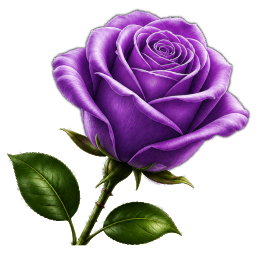
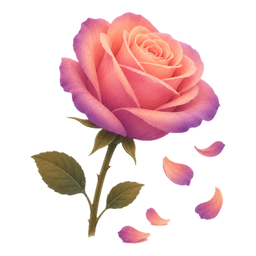
A rose that comes apart in the colours it is painted in
New artwork for the flower card: a painted rose running coral at its heart
to purple at the petal edges, with a few petals already falling. Keyed off
white the usual way, except that this one arrived inside a screenshot frame
— a black edge touching the border stops the flood-fill ever reaching the
white, so the frame is shaved before the key rather than after.

The petals that rain down are re-sampled from it, as that folder's README
says they must be. They are a spread along the flower's own gradient rather
than one average tint, because a field of a single flat pink reads as
confetti where a run from coral to purple reads as that flower coming apart.
The palest tints are still left out: each petal carries a white highlight,
and on a tint that pale it takes the whole shape to near-white — which
against the hero's new pale ground is not a petal at all.

The inline SVG fallback follows the artwork, as it is meant to.

diff --git a/public/build/assets/memorial-public-q6x1Aocp.js b/public/build/assets/memorial-public-q6x1Aocp.js
@@ -37,7 +37,7 @@ import{_ as dt}from"./preload-helper-I4rgV-VL.js";document.addEventListener("DOM
 <symbol id="mp-4" viewBox="0 0 60 80"><use href="#mpb-4" fill="currentColor"/><g clip-path="url(#mpc-4)"><path d="M32 80c-9-14-12-32-10-47 1-8 3-15 6-20-1 14 0 27 3 39 3 12 5 22 1 28z" fill="#000" opacity=".24"/><path d="M37 0c6 11 6 25 3 40-1 6-2 11-3 16 0-14-1-26-2-35-1-9-2-17 2-21z" fill="#fff" opacity=".22"/></g></symbol>
 <symbol id="mp-5" viewBox="0 0 60 80"><use href="#mpb-5" fill="currentColor"/><g clip-path="url(#mpc-5)"><path d="M28 82c-11-15-7-27-1-36 6-9 5-19-6-29 6-4 13-4 19-2-8 10-9 20-5 29 4 9 5 20-7 38z" fill="#000" opacity=".22"/><path d="M41 2c11 3 17 11 17 21 0 11-8 19-13 26-3 4-6 8-7 11 3-12 7-22 8-31 1-11-2-20-5-27z" fill="#fff" opacity=".24"/></g></symbol>
 <symbol id="mp-6" viewBox="0 0 60 80"><use href="#mpb-6" fill="currentColor"/><g clip-path="url(#mpc-6)"><path d="M30 78c-10-11-16-24-15-38 1-7 4-14 9-18-2 11-1 21 2 30 3 9 6 18 4 26z" fill="#000" opacity=".22"/><path d="M34 16c11-2 18 5 18 16 0 9-4 19-10 28 3-12 3-22 1-30-2-8-7-12-9-14z" fill="#fff" opacity=".24"/></g></symbol>
-</defs></svg>`,Ye=["#cf94e4","#c280d9","#b369cc","#a748c5","#9817bb","#8a15ae"],Ge=[0,0,0,1,1,2,2,3,3,3,4,5,5,6,6],Tt=[{share:.42,width:[13,24],opacity:[.3,.5],blur:1.4,duration:[5400,7200],tumble:.6,sway:[30,90]},{share:.4,width:[26,46],opacity:[.75,1],blur:0,duration:[3600,5200],tumble:1,sway:[50,150]},{share:.18,width:[64,118],opacity:[.45,.7],blur:3.5,duration:[2400,3400],tumble:1.35,sway:[80,220]}],j=(e,t)=>e+Math.random()*(t-e);let O=null,Ae=0;function _t(){return O&&O.isConnected||(document.getElementById("mpb-0")||document.body.insertAdjacentHTML("beforeend",It),O=document.createElement("div"),O.className="memorial-petal-layer",O.setAttribute("aria-hidden","true"),document.body.appendChild(O)),O}function Bt(e){const{fromX:t,toX:o,fromY:r,toY:n,amp:a,waves:s,phase:c,rx:i,ry:u,rz:p,scale:d}=e,h=10,v=[];for(let L=0;L<=h;L++){const m=L/h,H=t+(o-t)*m+Math.sin(c+m*Math.PI*s)*a,x=r+(n-r)*m,$=m<.06?m/.06:m>.88?(1-m)/.12:1;v.push({offset:m,opacity:$,transform:`translate3d(${H.toFixed(1)}px, ${x.toFixed(1)}px, 0) rotateX(${(i*m).toFixed(1)}deg) rotateY(${(u*m).toFixed(1)}deg) rotateZ(${(p*m).toFixed(1)}deg) scale(${d})`})}return v}const At=3600;function Pt(){if(We())return;const e=_t(),t=window.innerWidth,o=window.innerHeight,r=t>=1024?110:t>=640?88:58,n=Math.max(0,r-Ae);n!==0&&Tt.forEach(a=>{const s=Math.round(n*a.share);for(let c=0;c<s;c++){const i=Math.min(j(a.width[0],a.width[1]),t*.26),u=Ge[Math.floor(Math.random()*Ge.length)],p=Ye[Math.floor(Math.random()*Ye.length)],d=i*(80/60),h=document.createElement("span");h.className="memorial-petal",h.style.opacity="0",a.blur&&(h.style.filter=`blur(${a.blur}px)`),h.innerHTML=`<svg viewBox="0 0 60 80" width="${i.toFixed(0)}" height="${d.toFixed(0)}" style="color:${p}"><use href="#mp-${u}"/></svg>`,e.appendChild(h);const v=j(-i,t),L=j(a.duration[0],a.duration[1]),m=Bt({fromX:v,toX:v+j(-40,170)*(L/4e3),fromY:-d-j(0,o*.25),toY:o+d,amp:j(a.sway[0],a.sway[1]),waves:j(1.5,3.5),phase:Math.random()*Math.PI*2,rx:j(-150,150)*a.tumble,ry:j(150,430)*a.tumble*(Math.random()<.5?-1:1),rz:j(-540,540)*a.tumble,scale:Math.random()<.5?1:-1});Ae++;const H=()=>{h.remove(),Ae--};h.animate(m,{duration:L,easing:"linear",delay:j(-L*.9,At),fill:"forwards"}).finished.then(H).catch(H)}})}let U=null;function Ht(){return U&&U.isConnected||(U=document.createElement("div"),U.className="memorial-burst-layer",U.setAttribute("aria-hidden","true"),document.body.appendChild(U)),U}const We=()=>window.matchMedia("(prefers-reduced-motion: reduce)").matches;function Ke(e,t,o,r){const n=document.createElement("span");return n.className="memorial-burst-particle",n.innerHTML=t,n.style.left=`${o}px`,n.style.top=`${r}px`,e.appendChild(n),n}function Qe(e,t,o,r){if(We())return;const n=Xe[o]||Xe.prayer,a=Ht(),s="cubic-bezier(0.23, 1, 0.32, 1)",c=o==="flower";c&&Pt(),o==="candle"&&dt(()=>import("./memorial-candle-scene-Dh6yhaRk.js"),[]).then(d=>d.playCandleScene({originX:e,originY:t})).catch(()=>{}),o==="prayer"&&dt(()=>import("./memorial-prayer-scene-Bp1uh1z-.js"),[]).then(d=>d.playPrayerScene({originX:e,artSrc:r})).catch(()=>{});const i=r?`<img src="${A(r)}" alt="" width="132" height="132" style="display:block" />`:n.pop,u=Ke(a,i,e,t);u.style.transform="translate(-50%, -50%)",u.animate([{transform:"translate(-50%, -50%) scale(0.4)",opacity:0},{transform:"translate(-50%, -50%) scale(1.15)",opacity:1,offset:.35},{transform:"translate(-50%, -50%) scale(0.95)",opacity:.9,offset:.6},{transform:"translate(-50%, -50%) scale(1.35)",opacity:0}],{duration:720,easing:s,fill:"forwards"}).finished.then(()=>u.remove()).catch(()=>u.remove());const p=c?0:18;for(let d=0;d<p;d++){const h=n.particles[d%n.particles.length],v=Ke(a,h,e,t),L=d/p*Math.PI*2+(Math.random()-.5)*.5,m=95+Math.random()*115,H=Math.cos(L)*m,x=Math.sin(L)*m,$=30+Math.random()*45,S=(Math.random()-.5)*540,T=820+Math.random()*380;v.animate([{transform:"translate(-50%, -50%) translate(0px, 0px) scale(0.3) rotate(0deg)",opacity:0},{transform:`translate(-50%, -50%) translate(${H*.55}px, ${x*.55-10}px) scale(1) rotate(${S*.4}deg)`,opacity:1,offset:.3},{transform:`translate(-50%, -50%) translate(${H}px, ${x+$}px) scale(0.55) rotate(${S}deg)`,opacity:0}],{duration:T,easing:s,fill:"forwards"}).finished.then(()=>v.remove()).catch(()=>v.remove())}}function Ft(e,t){const o=document.querySelector(`[data-tribute-action-count="${e}"]`);if(!o)return;const r=o.dataset.noun||e,n=Math.max(0,parseInt((o.textContent||"0").replace(/\D/g,"")||0)+t);o.textContent=`${n} ${n===1?r:r+"s"}`}document.querySelectorAll("[data-tribute-action]").forEach(e=>{e.addEventListener("click",t=>{t.preventDefault();const o=e.dataset.tributeAction,r=e.getBoundingClientRect(),n=t.clientX||r.left+r.width/2,a=t.clientY||r.top+r.height/2,s=e.querySelector(".memorial-tribute-action__art img")?.src||null;if(e.closest("[data-tribute-quota-reached]")){Qe(n,a,o,s);return}Qe(n,a,o,s),qt({type:o}).then(c=>{c.ok&&Dt(o)})})});const W=document.getElementById("tribute-say-more"),jt={flower:"Say something with your flower",candle:"Say something with your candle",prayer:"Say something with your prayer"};function Dt(e){if(!W)return;W.dataset.marker=e;const t=W.querySelector("[data-say-more-label]");t&&(t.textContent=jt[e]||"Add a few words"),W.classList.remove("hidden")}W?.addEventListener("click",()=>{be(W.dataset.marker||""),W.classList.add("hidden")});function Je(e,t,o="h-10 w-10",r="bg-brand-100 dark:bg-brand-500/30 text-brand-600 dark:text-brand-400 text-sm font-semibold"){if(e)return`<img src="${A(e)}" alt="${A(t||"")}" class="${o} shrink-0 rounded-full object-cover" />`;const n=(t||"?").charAt(0).toUpperCase();return`<div class="flex ${o} shrink-0 items-center justify-center rounded-full ${r}">${A(n)}</div>`}function Ze(e){const t=document.getElementById("life-feed");if(!t)return;const o=(e.media||[]).map(a=>a.type==="photo"?`<img src="${a.url}" alt="" class="max-w-full rounded-lg mt-2" />`:a.type==="video"?tt(a.url,a.caption):a.type==="music"?Rt(a.url,a.caption,a.filename):"").join(""),r=document.createElement("article");r.id="chapter-"+e.id,r.className="life-feed-post relative overflow-visible rounded-xl border border-gray-300 dark:border-gray-800 bg-white dark:bg-white/[0.03]",r.dataset.postId=e.id,r.dataset.chapterId="",r.dataset.marker=e.tribute_type||"story",r.innerHTML=`
+</defs></svg>`,Ye=["#f08a72","#e76069","#dd6f8f","#c96a9d","#aa5796","#8b3f84"],Ge=[0,0,0,1,1,2,2,3,3,3,4,5,5,6,6],Tt=[{share:.42,width:[13,24],opacity:[.3,.5],blur:1.4,duration:[5400,7200],tumble:.6,sway:[30,90]},{share:.4,width:[26,46],opacity:[.75,1],blur:0,duration:[3600,5200],tumble:1,sway:[50,150]},{share:.18,width:[64,118],opacity:[.45,.7],blur:3.5,duration:[2400,3400],tumble:1.35,sway:[80,220]}],j=(e,t)=>e+Math.random()*(t-e);let O=null,Ae=0;function _t(){return O&&O.isConnected||(document.getElementById("mpb-0")||document.body.insertAdjacentHTML("beforeend",It),O=document.createElement("div"),O.className="memorial-petal-layer",O.setAttribute("aria-hidden","true"),document.body.appendChild(O)),O}function Bt(e){const{fromX:t,toX:o,fromY:r,toY:n,amp:a,waves:s,phase:c,rx:i,ry:u,rz:p,scale:d}=e,h=10,v=[];for(let L=0;L<=h;L++){const m=L/h,H=t+(o-t)*m+Math.sin(c+m*Math.PI*s)*a,x=r+(n-r)*m,$=m<.06?m/.06:m>.88?(1-m)/.12:1;v.push({offset:m,opacity:$,transform:`translate3d(${H.toFixed(1)}px, ${x.toFixed(1)}px, 0) rotateX(${(i*m).toFixed(1)}deg) rotateY(${(u*m).toFixed(1)}deg) rotateZ(${(p*m).toFixed(1)}deg) scale(${d})`})}return v}const At=3600;function Pt(){if(We())return;const e=_t(),t=window.innerWidth,o=window.innerHeight,r=t>=1024?110:t>=640?88:58,n=Math.max(0,r-Ae);n!==0&&Tt.forEach(a=>{const s=Math.round(n*a.share);for(let c=0;c<s;c++){const i=Math.min(j(a.width[0],a.width[1]),t*.26),u=Ge[Math.floor(Math.random()*Ge.length)],p=Ye[Math.floor(Math.random()*Ye.length)],d=i*(80/60),h=document.createElement("span");h.className="memorial-petal",h.style.opacity="0",a.blur&&(h.style.filter=`blur(${a.blur}px)`),h.innerHTML=`<svg viewBox="0 0 60 80" width="${i.toFixed(0)}" height="${d.toFixed(0)}" style="color:${p}"><use href="#mp-${u}"/></svg>`,e.appendChild(h);const v=j(-i,t),L=j(a.duration[0],a.duration[1]),m=Bt({fromX:v,toX:v+j(-40,170)*(L/4e3),fromY:-d-j(0,o*.25),toY:o+d,amp:j(a.sway[0],a.sway[1]),waves:j(1.5,3.5),phase:Math.random()*Math.PI*2,rx:j(-150,150)*a.tumble,ry:j(150,430)*a.tumble*(Math.random()<.5?-1:1),rz:j(-540,540)*a.tumble,scale:Math.random()<.5?1:-1});Ae++;const H=()=>{h.remove(),Ae--};h.animate(m,{duration:L,easing:"linear",delay:j(-L*.9,At),fill:"forwards"}).finished.then(H).catch(H)}})}let U=null;function Ht(){return U&&U.isConnected||(U=document.createElement("div"),U.className="memorial-burst-layer",U.setAttribute("aria-hidden","true"),document.body.appendChild(U)),U}const We=()=>window.matchMedia("(prefers-reduced-motion: reduce)").matches;function Ke(e,t,o,r){const n=document.createElement("span");return n.className="memorial-burst-particle",n.innerHTML=t,n.style.left=`${o}px`,n.style.top=`${r}px`,e.appendChild(n),n}function Qe(e,t,o,r){if(We())return;const n=Xe[o]||Xe.prayer,a=Ht(),s="cubic-bezier(0.23, 1, 0.32, 1)",c=o==="flower";c&&Pt(),o==="candle"&&dt(()=>import("./memorial-candle-scene-Dh6yhaRk.js"),[]).then(d=>d.playCandleScene({originX:e,originY:t})).catch(()=>{}),o==="prayer"&&dt(()=>import("./memorial-prayer-scene-Bp1uh1z-.js"),[]).then(d=>d.playPrayerScene({originX:e,artSrc:r})).catch(()=>{});const i=r?`<img src="${A(r)}" alt="" width="132" height="132" style="display:block" />`:n.pop,u=Ke(a,i,e,t);u.style.transform="translate(-50%, -50%)",u.animate([{transform:"translate(-50%, -50%) scale(0.4)",opacity:0},{transform:"translate(-50%, -50%) scale(1.15)",opacity:1,offset:.35},{transform:"translate(-50%, -50%) scale(0.95)",opacity:.9,offset:.6},{transform:"translate(-50%, -50%) scale(1.35)",opacity:0}],{duration:720,easing:s,fill:"forwards"}).finished.then(()=>u.remove()).catch(()=>u.remove());const p=c?0:18;for(let d=0;d<p;d++){const h=n.particles[d%n.particles.length],v=Ke(a,h,e,t),L=d/p*Math.PI*2+(Math.random()-.5)*.5,m=95+Math.random()*115,H=Math.cos(L)*m,x=Math.sin(L)*m,$=30+Math.random()*45,S=(Math.random()-.5)*540,T=820+Math.random()*380;v.animate([{transform:"translate(-50%, -50%) translate(0px, 0px) scale(0.3) rotate(0deg)",opacity:0},{transform:`translate(-50%, -50%) translate(${H*.55}px, ${x*.55-10}px) scale(1) rotate(${S*.4}deg)`,opacity:1,offset:.3},{transform:`translate(-50%, -50%) translate(${H}px, ${x+$}px) scale(0.55) rotate(${S}deg)`,opacity:0}],{duration:T,easing:s,fill:"forwards"}).finished.then(()=>v.remove()).catch(()=>v.remove())}}function Ft(e,t){const o=document.querySelector(`[data-tribute-action-count="${e}"]`);if(!o)return;const r=o.dataset.noun||e,n=Math.max(0,parseInt((o.textContent||"0").replace(/\D/g,"")||0)+t);o.textContent=`${n} ${n===1?r:r+"s"}`}document.querySelectorAll("[data-tribute-action]").forEach(e=>{e.addEventListener("click",t=>{t.preventDefault();const o=e.dataset.tributeAction,r=e.getBoundingClientRect(),n=t.clientX||r.left+r.width/2,a=t.clientY||r.top+r.height/2,s=e.querySelector(".memorial-tribute-action__art img")?.src||null;if(e.closest("[data-tribute-quota-reached]")){Qe(n,a,o,s);return}Qe(n,a,o,s),qt({type:o}).then(c=>{c.ok&&Dt(o)})})});const W=document.getElementById("tribute-say-more"),jt={flower:"Say something with your flower",candle:"Say something with your candle",prayer:"Say something with your prayer"};function Dt(e){if(!W)return;W.dataset.marker=e;const t=W.querySelector("[data-say-more-label]");t&&(t.textContent=jt[e]||"Add a few words"),W.classList.remove("hidden")}W?.addEventListener("click",()=>{be(W.dataset.marker||""),W.classList.add("hidden")});function Je(e,t,o="h-10 w-10",r="bg-brand-100 dark:bg-brand-500/30 text-brand-600 dark:text-brand-400 text-sm font-semibold"){if(e)return`<img src="${A(e)}" alt="${A(t||"")}" class="${o} shrink-0 rounded-full object-cover" />`;const n=(t||"?").charAt(0).toUpperCase();return`<div class="flex ${o} shrink-0 items-center justify-center rounded-full ${r}">${A(n)}</div>`}function Ze(e){const t=document.getElementById("life-feed");if(!t)return;const o=(e.media||[]).map(a=>a.type==="photo"?`<img src="${a.url}" alt="" class="max-w-full rounded-lg mt-2" />`:a.type==="video"?tt(a.url,a.caption):a.type==="music"?Rt(a.url,a.caption,a.filename):"").join(""),r=document.createElement("article");r.id="chapter-"+e.id,r.className="life-feed-post relative overflow-visible rounded-xl border border-gray-300 dark:border-gray-800 bg-white dark:bg-white/[0.03]",r.dataset.postId=e.id,r.dataset.chapterId="",r.dataset.marker=e.tribute_type||"story",r.innerHTML=`
             <div class="p-4">
                 <div class="flex items-center gap-3">
                     ${Je(e.author_photo,e.author)}

diff --git a/resources/js/memorial-public.js b/resources/js/memorial-public.js
@@ -2037,14 +2037,17 @@ document.addEventListener('DOMContentLoaded', () => {
 </defs></svg>`;
 
     // Sampled off the flower artwork itself rather than picked by eye, so the petals that
-    // fall are the same purples the rose on the card is made of. Re-sample these whenever
+    // fall are made of the same colours as the rose on the card. Re-sample these whenever
     // that file changes — public/images/tributes/README.md says so for this reason.
+    //
+    // The rose runs coral at its heart to purple at the petal edges, so the palette runs
+    // that way too: a field of one flat pink would read as confetti rather than as that
+    // flower coming apart.
     //
     // The artwork's own lightest tints are left out. Each petal carries a white highlight
     // overlay, and on a tint that pale the highlight takes the whole shape to near-white —
-    // which in a field of purple reads as a different object rather than as a petal
-    // catching the light.
-    const PETAL_COLOURS = ['#cf94e4', '#c280d9', '#b369cc', '#a748c5', '#9817bb', '#8a15ae'];
+    // which against this page's own pale ground is not a petal at all.
+    const PETAL_COLOURS = ['#f08a72', '#e76069', '#dd6f8f', '#c96a9d', '#aa5796', '#8b3f84'];
 
     // Drawn from rather than picked uniformly, because the narrow shapes — the edge-on
     // sliver especially — read as a hairline at small sizes. A few are what sells the

diff --git a/resources/views/pages/memorials/partials/tribute-art.blade.php b/resources/views/pages/memorials/partials/tribute-art.blade.php
@@ -30,18 +30,18 @@
             <path d="M32 46c-6 0-11-3-13-8 6-2 11 0 13 4z" fill="#22c55e"/>
             <path d="M32 40c5 0 9-2 11-7-5-2-9 0-11 4z" fill="#4ade80"/>
             <g transform="translate(32,24)">
-                <ellipse rx="9" ry="14" fill="#7c3aed" transform="rotate(0)"/>
-                <ellipse rx="9" ry="14" fill="#8b5cf6" transform="rotate(60)"/>
-                <ellipse rx="9" ry="14" fill="#7c3aed" transform="rotate(120)"/>
-                <ellipse rx="8" ry="11" fill="#a78bfa" transform="rotate(30)"/>
-                <ellipse rx="8" ry="11" fill="#7e22ce" transform="rotate(90)"/>
-                <ellipse rx="8" ry="11" fill="#a78bfa" transform="rotate(150)"/>
-                <circle r="5.5" fill="#6d28d9"/>
-                <circle r="2.5" fill="#5b21b6"/>
+                <ellipse rx="9" ry="14" fill="#aa5796" transform="rotate(0)"/>
+                <ellipse rx="9" ry="14" fill="#c96a9d" transform="rotate(60)"/>
+                <ellipse rx="9" ry="14" fill="#aa5796" transform="rotate(120)"/>
+                <ellipse rx="8" ry="11" fill="#dd6f8f" transform="rotate(30)"/>
+                <ellipse rx="8" ry="11" fill="#c96a9d" transform="rotate(90)"/>
+                <ellipse rx="8" ry="11" fill="#dd6f8f" transform="rotate(150)"/>
+                <circle r="5.5" fill="#f0857a"/>
+                <circle r="2.5" fill="#f8a48f"/>
             </g>
         </g>
-        <path d="M50 40c3-1 6 1 6 4s-4 4-6 2-2-5 0-6z" fill="#a78bfa" opacity="0.85"/>
-        <path d="M46 54c2.5-1 5 .8 5 3.2s-3.2 3.3-4.9 1.6-1.8-4-.1-4.8z" fill="#c4b5fd" opacity="0.7"/>
+        <path d="M50 40c3-1 6 1 6 4s-4 4-6 2-2-5 0-6z" fill="#c96a9d" opacity="0.85"/>
+        <path d="M46 54c2.5-1 5 .8 5 3.2s-3.2 3.3-4.9 1.6-1.8-4-.1-4.8z" fill="#f0a08c" opacity="0.7"/>
     </svg>
 @elseif ($type === 'candle')
     <svg viewBox="0 0 64 64" fill="none" class="h-full w-full" aria-hidden="true">

diff --git a/public/images/tributes/README.md b/public/images/tributes/README.md
@@ -38,11 +38,10 @@ ground before committing it; a halo is invisible on white and obvious on black.
   so the anti-aliased white ramp does not survive as a halo, then trimmed, padded square
   and downscaled to 256px. No recolour: it already sits in the palette.
 - **Praying hands** — same treatment, same source style, purple cuffs.
-- **Flower** — the violet rose, lifted a step lighter to sit beside the softer candle and
-  hands: `gamma 1.5`, brightness ×1.12 and saturation ×0.78 in HSL, applied through a
-  hue mask (250–335°) so the leaves and stem keep their greens. `PETAL_COLOURS` in
-  `resources/js/memorial-public.js` had the identical transform applied to each swatch, so
-  the petals that rain down are still made of the same purples as the rose.
+- **Flower** — a painted rose running coral at its heart to purple at the petal edges,
+  with a few petals already falling. Keyed the same way; it arrived inside a screenshot
+  frame, so the black edges were shaved before the flood-fill (a frame touching the border
+  stops the fill reaching the white). No recolour.
 
 Earlier versions were recoloured from other hues; if that ever comes back, the method that
 worked was to carry each pixel's offset from the middle of the source hue range over as
@@ -66,13 +65,16 @@ requirements, and source art almost never arrives meeting them:
 
 ## The colour is not only in the file
 
-`flower.png` is violet, and two other places are set to match it. If the artwork changes
+`flower.png` is a coral-to-purple rose, and two other places are set to match it. If the artwork changes
 again, these change with it:
 
 - `PETAL_COLOURS` in `resources/js/memorial-public.js` — the petals that rain down when the
-  card is tapped, sampled from this file so they are made of the same violets. The
-  artwork's palest tints are deliberately left out: each petal carries a white highlight
-  overlay that takes a pale tint to near-white.
+  card is tapped, sampled from this file so they are made of the same colours. Sample a
+  spread along the flower's own gradient rather than one average tint: this rose runs
+  coral to purple, and a field of one flat pink reads as confetti instead of that flower
+  coming apart. The artwork's palest tints are deliberately left out: each petal carries a
+  white highlight overlay that takes a pale tint to near-white, which against the page's
+  own pale ground is not a petal at all.
 - The inline flower motif in `tribute-art.blade.php`, the fallback drawn when this file is
   missing.
 
